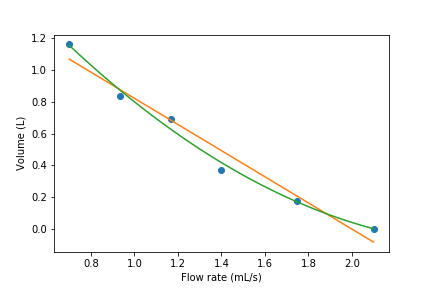
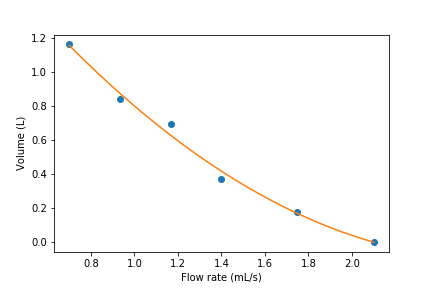
...

diff --git a/Project/team10_final_report.md b/Project/team10_final_report.md
@@ -82,17 +82,20 @@ Table 2: Experiments conducted with varying flow rate
 
 #### Results ####
 
-For the first
+As mentioned above, the first part of this project aims to investigate the breakthrough characteristics of a continuous flow carbon contactor at a range of different layering patterns given equal proportions of sand and activated carbon by mass in the column (Table 1). The concentration of red dye was plotted against time for Experiments 1-6 (Figure 4). It can be seen that most of the breakthrough curves have very similar shapes, apart from the brown line which represents the graph for Experiment 6, which has no layers and has activated carbon and sand thoroughly mixed throughout the adsorption column.
+
 ![Layers 1](https://raw.githubusercontent.com/lw583/CEE4530/master/Project/Layers_1.png)
 Figure 4: Graph of red dye concentration against time for all layering experiments at 0.7 mL/s.
 
-![Layers 1](https://raw.githubusercontent.com/lw583/CEE4530/master/Project/Layers_2.png)
+
+
+![Layers 2](https://raw.githubusercontent.com/lw583/CEE4530/master/Project/Layers_2.png)
 Figure 5: Graph of red dye concentration against time for 1, 2, 4, 6 and 8 layers at 0.7 mL/s.
 
-![Layers 1](https://raw.githubusercontent.com/lw583/CEE4530/master/Project/Layers_3.png)
+![Layers 3](https://raw.githubusercontent.com/lw583/CEE4530/master/Project/Layers_3.png)
 Figure 6: Graph of red dye concentration against time for 1 layer and 8 layers at 0.7 mL/s.
 
-![Layers 1](https://raw.githubusercontent.com/lw583/CEE4530/master/Project/Layers_4.png)
+![Layers 4](https://raw.githubusercontent.com/lw583/CEE4530/master/Project/Layers_4.png)
 Figure 7: Graph of red dye concentration against time for 1 layer and no layers (mixed) at 0.7 mL/s.
 
 
@@ -354,11 +357,12 @@ y_array_3 = 328.71 * x_array**2 - 1747.1 * x_array + 2218.5
 y_array_3 = y_array_3 * u.mL
 
 plt.plot(Flow_rate[6:12], (V_array[0:6]).to(u.L), 'o')
-plt.plot(x_array, y_array_2.to(u.L), '-')
+#plt.plot(x_array, y_array_2.to(u.L), '-')
 plt.plot(x_array, y_array_3.to(u.L), '-')
 plt.xlabel('Flow rate (mL/s)')
 plt.ylabel('Volume (L)')
 plt.savefig("Project/Volume_Flows_2.png")
-leg = plt.legend(('Data points','Linear fit', 'Polynomial fit'), loc='best')
+#leg = plt.legend(('Data points','Linear fit', 'Curve fit'), loc='best')
+leg = plt.legend(('Data points', 'Curve fit'), loc='best')
 plt.show()
 ```
